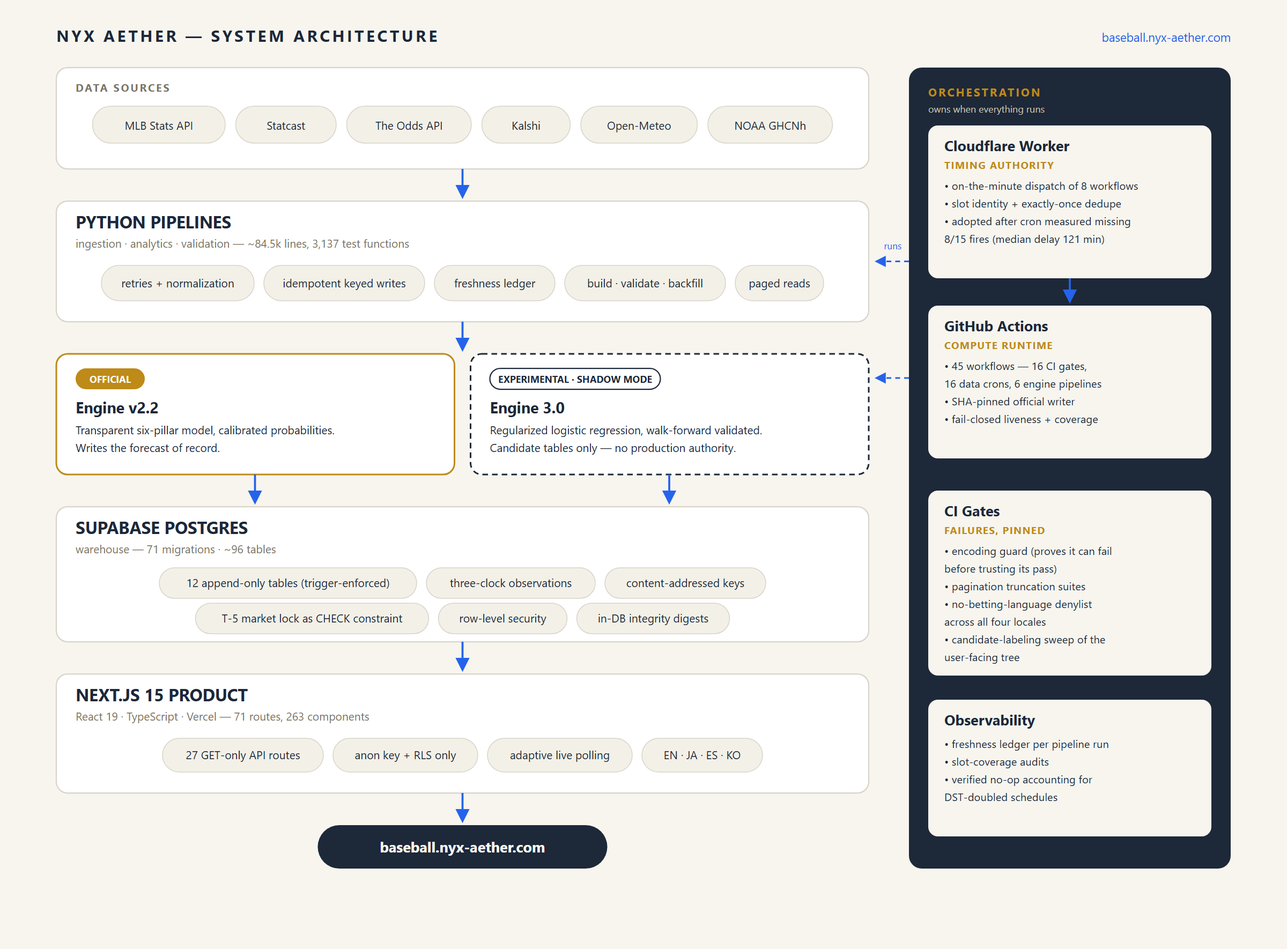
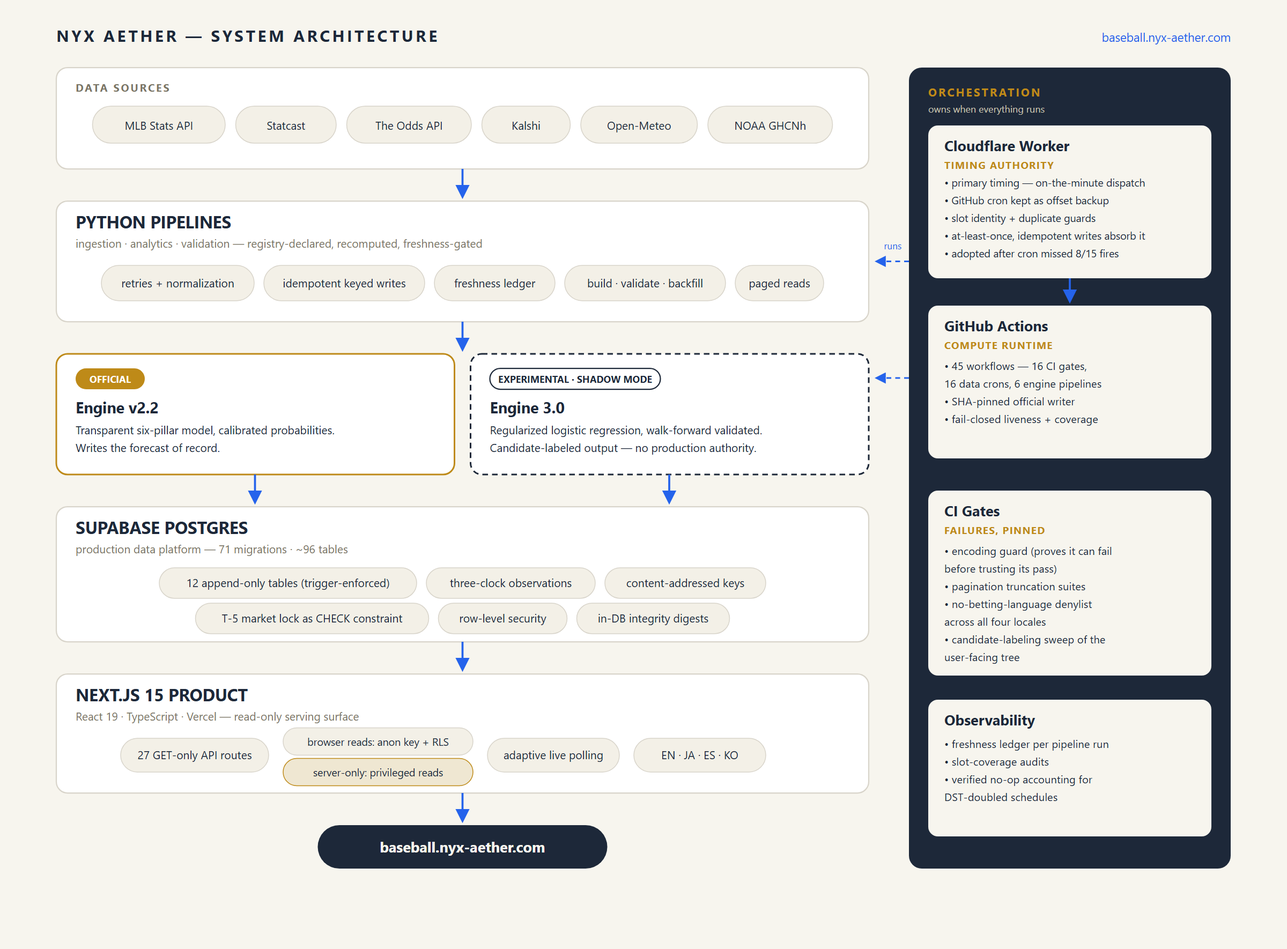
Accuracy pass: at-least-once scheduling, two-path access model, data-platform terminology, refreshed record, model-eval cohorts

diff --git a/README.md b/README.md
@@ -2,7 +2,7 @@
 
 ![NYX Aether](assets/hero.png)
 
-A production MLB analytics and forecasting platform — designed, built, and operated end-to-end by one person in 12 weeks. Six external sources feed a Postgres warehouse with database-enforced temporal integrity. Two prediction engines run under frozen evaluation protocols. A Cloudflare Worker owns all scheduling, because the default scheduler measurably dropped half its fires. The public product grades its own forecasts in the open.
+A production MLB analytics and forecasting platform — designed, built, and operated end-to-end by one person in 12 weeks. Six public data sources feed a PostgreSQL data platform whose temporal integrity is enforced by the database itself; two prediction engines run under frozen evaluation protocols; and the public product grades its own forecasts in the open. The hard part was never the baseball — it was making every number explainable, timestamped, and reproducible after the fact.
 
 **Live product:** [baseball.nyx-aether.com](https://baseball.nyx-aether.com)
 
@@ -10,7 +10,7 @@ A production MLB analytics and forecasting platform — designed, built, and ope
 
 | | |
 |---|---|
-| [Architecture](docs/ARCHITECTURE.md) | System design: sources → pipelines → warehouse → serving, and the orchestration rail |
+| [Architecture](docs/ARCHITECTURE.md) | System design: sources → pipelines → data platform → serving, and the orchestration rail |
 | [Technical case study](docs/TECHNICAL_CASE_STUDY.md) | Five production problems: silent data loss, unreliable schedulers, forecast integrity, point-in-time correctness, evaluation governance |
 | [Data engineering](docs/DATA_ENGINEERING.md) | Ingestion, idempotency, freshness, identity resolution, and the failure modes that shaped them |
 | [Model evaluation](docs/MODEL_EVALUATION.md) | How the models are measured, what the numbers actually are, and the rules that prevent overclaiming |
@@ -20,10 +20,10 @@ A production MLB analytics and forecasting platform — designed, built, and ope
 
 ## What I built
 
-NYX Aether answers a simple product question — *who is likely to win tonight, and why?* — with an uncompromising constraint: every number shown to a user must be explainable, timestamped, and reproducible after the fact. That constraint, not the baseball, is what made the system hard.
+NYX Aether answers a simple product question — *who is likely to win tonight, and why?* — under a hard constraint: every number shown to a user must be explainable, timestamped, and reproducible after the fact.
 
 - **Data platform.** Python pipelines ingest game schedules, box scores, pitch-level Statcast data, sportsbook odds, prediction-market prices, and stadium weather from six external sources into Supabase Postgres — with retries, freshness tracking, idempotent writes, and reconciliation passes that heal gaps instead of assuming clean runs.
-- **Warehouse with guarantees.** 71 SQL migrations define ~96 tables. Twelve of them are append-only, enforced by database triggers that refuse `UPDATE`/`DELETE` for every role — historical facts cannot be rewritten through any database role, including the pipelines' own service role.
+- **Data platform with database-enforced guarantees.** 71 SQL migrations define ~96 tables. Twelve are append-only, enforced by triggers that refuse `UPDATE`/`DELETE` for every role — historical facts cannot be rewritten through any database role, including the pipelines' own service role.
 - **Two engines, asymmetric authority.** A transparent pillar-based engine with calibrated probabilities publishes the forecast of record. A machine-learned challenger runs in shadow mode against it — its writer cannot reach production tables, and it is evaluated under preregistered, frozen protocols.
 - **Public accountability.** The product publishes its own win–loss record on every graded forecast, alongside sportsbook favorites' records on their own cohorts — with an explicit "compare the records, not just the percentages" explanation, because the cohorts differ.
 - **The product itself.** A Next.js 15 app — live scores, game analysis, player pages, playoff odds, and a model history page — in four languages, on a read-only API surface.
@@ -32,12 +32,12 @@ NYX Aether answers a simple product question — *who is likely to win tonight, 
 
 ![Architecture diagram](assets/architecture.svg)
 
-The unusual part is the **orchestration rail**. GitHub Actions is the compute runtime, but not the timing authority: a Cloudflare Worker dispatches the scheduled workflows on the minute, labels every dispatch with a slot identity, and dedupes so each slot runs exactly once. The split was validated by measurement — bare GitHub cron, instrumented over three days on a production workflow, missed 8 of 15 scheduled fires, with a median delay of 121 minutes and a worst case of 479. Downstream jobs derive their work from the schedule slot, not the wall clock, so a delayed run still processes the right slate. Details in [ARCHITECTURE.md](docs/ARCHITECTURE.md) and [case study #2](docs/TECHNICAL_CASE_STUDY.md#2-scheduling-on-infrastructure-that-misses-half-its-alarms).
+The unusual part is the **orchestration rail**. GitHub Actions is the compute runtime; timing authority lives in a Cloudflare Worker that dispatches the scheduled workflows on the minute and labels every dispatch with a slot identity. The split was earned by measurement — bare GitHub cron, instrumented over three days on a production workflow, missed 8 of 15 scheduled fires (median delay 121 minutes, worst case 479). Scheduling is resilient rather than exactly-once: the Worker is primary, each workflow keeps its GitHub cron as a backup, and idempotent `game_pk`-keyed writes make a duplicate or retried run harmless. Jobs derive their work from the schedule slot, not the wall clock, so a delayed run still processes the right slate. Details in [ARCHITECTURE.md](docs/ARCHITECTURE.md) and [case study #2](docs/TECHNICAL_CASE_STUDY.md#2-scheduling-on-infrastructure-that-misses-half-its-alarms).
 
 ## Engineering highlights
 
 1. **A write-once forecast archive.** I caught upserts silently rewriting "pregame" win probabilities after games started — 33 of 60 archived values had drifted from what was first captured, which would have quietly corrupted every evaluation metric. The fix: an insert-only archive behind a unique lock, verified by checksum audits — and a doctrine that hardened into the 12 trigger-enforced append-only tables. ([Case study #1](docs/TECHNICAL_CASE_STUDY.md#1-the-forecast-of-record))
-2. **Silent truncation, found and fenced.** The Postgres REST layer caps responses at ~1,000 rows without an error. Four production readers were consuming truncated data — one table had 14,825 rows, and the *newest* rows were the ones dropped. Fix: a paged reader with a deterministic total order, plus a CI regression suite that simulates the truncation behavior so the bug class can't return. ([Case study #3](docs/TECHNICAL_CASE_STUDY.md#3-the-database-was-silently-lying))
+2. **Silent truncation, found and fenced.** The Postgres REST layer caps responses at ~1,000 rows without an error. Four production readers were consuming truncated data — one table had 14,825 rows, and the *newest* rows were the ones dropped. Fix: a paged reader with a deterministic total order, plus a CI regression suite that simulates the truncation so the bug class can't return. ([Case study #3](docs/TECHNICAL_CASE_STUDY.md#3-the-database-was-silently-lying))
 3. **Point-in-time correctness compiled into the schema.** Three separate clocks per observation (what the source claimed, when it was observed, when the row was written). Content-addressed primary keys whose hashes are recomputed by `CHECK` constraints in-database. A sportsbook closing line locked 5 minutes before first pitch as a pure function of append-only snapshots — with the deadline arithmetic itself a `CHECK` constraint. ([Case study #4](docs/TECHNICAL_CASE_STUDY.md#4-point-in-time-correctness-as-a-schema-property))
 4. **Evaluation governance that cannot overclaim.** Split policy, metrics, and holdout seasons were frozen as hashed contracts before training; the out-of-time validation was preregistered, executed once, and recorded as consumed; the live comparison ledger refuses directional claims below its minimum-evidence threshold. ([Case study #5](docs/TECHNICAL_CASE_STUDY.md#5-evaluation-governance-that-cannot-overclaim))
 5. **A benchmark that caught its own bug.** The engine-comparison harness found non-determinism in its own reads, invalidated its first result, re-ran to bit-exact reproduction — and still published its verdict as "not statistically established." ([MODEL_EVALUATION.md](docs/MODEL_EVALUATION.md))
@@ -49,16 +49,16 @@ The unusual part is the **orchestration rail**. GitHub Actions is the compute ru
 
 The modeling story is deliberately unglamorous, because MLB game outcomes are close to coin flips and pretending otherwise collapses in front of anyone who knows the domain.
 
-- Walk-forward out-of-sample AUC for the platform's machine-learned model line rose stepwise toward a documented practical ceiling of ~0.58–0.60 for this problem; each step had to earn its place out-of-sample. Figures, per-step attribution, and calibration evidence in [MODEL_EVALUATION.md](docs/MODEL_EVALUATION.md).
-- The production engine's public record at time of writing: **521–438 (54.3% ± 3.2pp at 95%) on 959 graded picks**. Sportsbook favorites over a recent overlapping window win ≈58.5–59.0% *of their own priced cohorts* — a different denominator, which the product says out loud instead of burying.
+- Walk-forward out-of-sample AUC for the production model line rose stepwise across development — documented with its cohort and sample size in [MODEL_EVALUATION.md](docs/MODEL_EVALUATION.md) — against an internal empirical ceiling near 0.58–0.60 for this near-coin-flip problem. Log loss, Brier, and calibration are the primary metrics; AUC is secondary.
+- The production engine's public record (snapshot **September 2, 2026**): **524–450 on 974 graded forecasts — 53.8%, ±3.1 pp at 95%**, above a coin flip (two-sided p ≈ 0.017). Sportsbook favorites over a recent overlapping window run **56.8–57.3%** *on their own priced cohorts* (213–227 games each) — a different denominator, which the product states out loud instead of burying.
 - The experimental engine has **no production authority** — its writer cannot reach official tables, its output renders only under explicit candidate labeling, and a repository test sweeps the user-facing tree to prove no experimental output leaks into the product. (Mechanisms in [MODEL_EVALUATION.md](docs/MODEL_EVALUATION.md).)
 
 ## Production & reliability
 
-- **45 GitHub Actions workflows**: 16 CI gates, 16 scheduled data pipelines, 6 engine pipelines, a monitor, and manual tools.
+- **45 GitHub Actions workflows**: 16 CI gates, 16 scheduled data pipelines, 6 engine pipelines, a freshness monitor, and manual tools.
 - **Observability as a wrapper**: every pipeline run records run metadata and data freshness together, and failure never advances freshness.
-- **Idempotency everywhere**: keyed upserts, healing lookbacks, and set-based reconciliation make repeated or overlapping runs harmless ([DATA_ENGINEERING.md](docs/DATA_ENGINEERING.md)).
-- **Read-only serving surface**: 27 GET-only API routes, no server actions — the web tier cannot mutate anything ([ARCHITECTURE.md](docs/ARCHITECTURE.md)).
+- **Idempotent, at-least-once execution**: the Cloudflare Worker is the primary scheduler with each workflow's GitHub cron kept as backup; keyed upserts, healing lookbacks, and set-based reconciliation make a duplicate, retried, or overlapping run harmless ([DATA_ENGINEERING.md](docs/DATA_ENGINEERING.md)).
+- **Read-only serving surface**: 27 GET-only API routes, no server actions — the browser cannot mutate anything, and reads split between a public anon-key + RLS path and a server-only privileged path that never reaches the client ([ARCHITECTURE.md](docs/ARCHITECTURE.md)).
 - **Incidents become gates**: the failure classes that actually occurred — encoding corruption, pagination truncation, language drift, label leakage — each run as blocking CI checks ([DATA_ENGINEERING.md](docs/DATA_ENGINEERING.md#testing)).
 
 ## The product
@@ -76,20 +76,17 @@ The public app at [baseball.nyx-aether.com](https://baseball.nyx-aether.com) —
 
 ## Tech stack
 
-**Python** (pipelines, engines, evaluation) · **PostgreSQL / Supabase** (warehouse, RLS, triggers as guarantees) · **TypeScript / Next.js 15 / React 19 / Tailwind** (product) · **GitHub Actions** (compute + CI) · **Cloudflare Workers** (timing authority) · **Vercel** (serving) · pandas, scikit-learn, pybaseball, pytest (3,137 test functions), node:assert (96 web test files, zero test-framework dependencies)
+**Python** (pipelines, engines, evaluation) · **PostgreSQL / Supabase** (data platform, RLS, triggers as guarantees) · **TypeScript / Next.js 15 / React 19 / Tailwind** (product) · **GitHub Actions** (compute + CI) · **Cloudflare Workers** (timing authority) · **Vercel** (serving) · pandas, scikit-learn, pybaseball, pytest, node:assert
 
 ## By the numbers
 
-All figures measured from the production repository at the time of writing (September 2026).
-
 | | |
 |---|---|
-| Timeline | 12 weeks (June 10 – September 2, 2026), solo |
-| History | 1,000 commits, 438 merged pull requests |
-| Pipelines | ~84.5k lines of Python + ~43.5k lines of tests |
-| Database | 71 migrations, ~96 tables, 12 append-only under trigger enforcement |
-| Automation | 45 GitHub Actions workflows + a Cloudflare Worker dispatcher |
-| Product | 71 routes, 263 React components, 27 read-only API endpoints, 4 languages |
+| Timeline | 12 weeks, solo (June 10 – September 2, 2026) |
+| Public track record | 524–450 on 974 graded forecasts (53.8%), snapshot Sep 2, 2026 |
+| Data integrity | 71 migrations; 12 append-only tables enforced by database triggers |
+| Automation | 45 GitHub Actions workflows, Cloudflare-dispatched with idempotent writes |
+| Serving | 27 read-only API endpoints, 4 languages |
 
 ## Project evolution
 
@@ -99,7 +96,7 @@ The system was promoted, not launched: the first engine went to production behin
 
 - **The production source is private.** It contains operational configuration and model internals that are not appropriate to publish. This case-study repo is the public artifact: architecture, decisions, tradeoffs, and verified numbers — no fabricated code samples (anything illustrative is labeled as simplified pseudocode).
 - **Data use.** The platform consumes free, publicly accessible data (MLB Stats API, Statcast via pybaseball, The Odds API, Kalshi, Open-Meteo, NOAA) for research and demonstration. It is an independent project, not affiliated with or endorsed by MLB or any data provider. The product presents explainable sports intelligence — it does not offer betting advice, and a CI gate enforces that stance in all four languages.
-- **Method.** Built solo, with AI coding tools in the loop for implementation speed. The guardrails are mechanical, not aspirational: every change through a pull request (438 merged), blocking CI for previously observed failure classes, immutability and access rules enforced in the database, and evaluation protocols that bind the author too.
+- **Method.** AI coding tools were used in the loop for implementation speed. The architecture, constraints, evaluation policy, and production decisions were mine, and they are governed mechanically rather than by good intentions: every change lands through a pull request, blocking CI guards the failure classes that have actually occurred, immutability and access rules are enforced in the database, and the evaluation protocols bind me as much as anyone.
 
 ## About
 

diff --git a/docs/ARCHITECTURE.md b/docs/ARCHITECTURE.md
@@ -1,6 +1,6 @@
 # Architecture
 
-NYX Aether is a five-layer system: external data sources feed Python pipelines, which land in a Postgres warehouse, which serves two prediction engines and a Next.js product — with an orchestration rail alongside that owns *when* everything runs.
+NYX Aether is a five-layer system: external data sources feed Python pipelines, which land in a Supabase Postgres data platform, which serves two prediction engines and a Next.js product — with an orchestration rail alongside that owns *when* everything runs.
 
 ![Architecture diagram](../assets/architecture.svg)
 
@@ -29,7 +29,7 @@ Clients share a pattern: persistent sessions, timeouts, retry with exponential b
 
 ## Layer 2 — Pipelines (Python)
 
-~84.5k lines of pipeline and engine code, ~43.5k lines of tests (3,137 test functions).
+A layer built for correctness under repetition — every dataset declared, every builder independently recomputed, every run's freshness earned rather than assumed.
 
 - **A pipeline registry as the single source of truth.** Every dataset is declared in a frozen manifest: its builder, validator, backfill entry point, source, owner, status (production / candidate / planned), and schedule. "What pipelines exist" is a queryable fact, not tribal knowledge.
 - **A shared formula registry.** Common statistical formulas live in one module with denominator guards, null handling, and fixed rounding — verified byte-identical to the inline math they replaced before adoption. The registry doubles as documentation: each metric maps to its formula and methodology, separating public MLB metrics from the platform's own indexes.
@@ -38,15 +38,15 @@ Clients share a pattern: persistent sessions, timeouts, retry with exponential b
 
 Details and failure stories in [DATA_ENGINEERING.md](DATA_ENGINEERING.md).
 
-## Layer 3 — Warehouse (Supabase Postgres)
+## Layer 3 — Data platform (Supabase Postgres)
 
-71 SQL migrations defining ~96 tables. The schema enforces its rules:
+A production PostgreSQL data platform — not a dedicated analytical warehouse — carrying both the operational serving tables and the historical/analytical structures behind them. 71 SQL migrations define ~96 tables, and the schema enforces its own rules:
 
 - **12 append-only tables** enforced by `BEFORE UPDATE OR DELETE` triggers that bind every role, including the pipelines' own service role. Market snapshots, starter observations, weather archives, engine artifacts — anywhere history *is* the product. (The forecast-of-record archive predates the trigger doctrine; it is write-once by unique lock, insert-only writes, and standing checksum audits — [case study #1](TECHNICAL_CASE_STUDY.md#1-the-forecast-of-record).)
 - **Three-clock observation records** (source-claimed time, observed time, written time) enabling exact as-of replay.
 - **Content-addressed primary keys** on key archival tables, with `CHECK` constraints recomputing the hash in-database, so a row whose content contradicts its identity cannot exist.
 - **Derived integrity in SQL.** The T-5 closing-line lock validates its own deadline arithmetic in a `CHECK` constraint; weather snapshot digests are computed by Postgres, not trusted from the client.
-- **Two-tier access.** Public read access flows through row-level security scoped to an anonymous key; privileged writes use the service role only from pipeline infrastructure. A cross-source identity map (MLBAM / Retrosheet / Baseball-Reference / FanGraphs player IDs) has anchored multi-source joins since migration 0001.
+- **Row-level security as the boundary.** Public reads flow through RLS policies scoped to an anonymous key; a set of tables is RLS-closed (RLS on, no anonymous policy) and reachable only with the service-role credential — used by pipeline infrastructure and by server-only web code, never shipped to the browser. A cross-source identity map (MLBAM / Retrosheet / Baseball-Reference / FanGraphs player IDs) has anchored multi-source joins since migration 0001.
 
 ## Layer 4 — Engines
 
@@ -62,7 +62,7 @@ The asymmetry is structural: the experimental engine's writer cannot reach produ
 Next.js 15 / React 19 / TypeScript / Tailwind; 71 routes, 263 components, four locales (EN/JA/ES/KO).
 
 - **Read-only by construction:** 27 API routes, all `GET`; no mutation route and no server actions exist in the web tree.
-- **The browser never holds privilege:** clients get the anonymous key, scoped by row-level security; anything needing more runs server-side.
+- **Two read paths, one privilege boundary:** the browser reads with the anonymous key, and safety rests on Postgres RLS select policies — the service-role key is never used client-side and never enters the bundle. A separate **server-only** path reads the RLS-closed tables with a privileged credential, guarded three ways: an `import "server-only"` build guard, a non-public env var name (so the framework can't inline it), and a runtime check that throws if it ever runs in a browser. When that credential is absent, the server path returns an explicit unavailable state rather than silently downgrading to the anon client.
 - **Server-side proxying for live data:** upstream MLB calls are proxied with an 8-second cache and adaptive client polling (5s during live play, backing off to 15/60/300s by game state) — fast when it matters, polite when it doesn't.
 - **Promotions are URL rewrites, not history rewrites:** the current UI generation serves clean URLs via `beforeFiles` rewrites over the previous generation, which remains in-tree as the rollback path. Redirects for promoted paths are temporary (307), so rolling back never fights browser-cached permanent redirects.
 - **Product-safety gates run in CI:** betting-language denylist across all four locales, and the candidate-labeling sweep of user-facing surfaces ([DATA_ENGINEERING.md](DATA_ENGINEERING.md#testing)).
@@ -71,10 +71,10 @@ Next.js 15 / React 19 / TypeScript / Tailwind; 71 routes, 263 components, four l
 
 GitHub Actions is the compute runtime — 45 workflows: 16 CI gates, 16 scheduled data pipelines, 6 engine pipelines, a monitor, and manual tools — but timing authority lives in a Cloudflare Worker, adopted for all scheduled lanes after bare GitHub cron was measured dropping over half its fires ([case study #2](TECHNICAL_CASE_STUDY.md#2-scheduling-on-infrastructure-that-misses-half-its-alarms)).
 
-- The Worker dispatches eight workflows on the minute, each dispatch labeled with a slot identity and deduped to exactly-once per slot.
-- Jobs derive their slate from the slot, not the wall clock — a late run still processes the right work.
-- Eastern-time schedules run as DST-doubled cron pairs; the inactive half resolves to a verified no-op.
-- Every write path is idempotent (keyed upserts or content-addressed appends), so overlap and retry are harmless by design.
+- **Primary timing, backup scheduling.** The Worker dispatches eight workflows on the minute, each dispatch labeled with a slot identity. Every workflow also keeps its own GitHub cron as a backup — offset for the slot-sensitive lanes — so if the Worker is down the job still runs, less punctually.
+- **At-least-once, not exactly-once.** The Worker's active-run and per-slot guards *reduce* duplicate dispatches but cannot eliminate them, because a backup cron fires independently of the Worker; a healthy slot may legitimately run more than once. Correctness does not depend on single execution.
+- **Idempotent execution.** Every authoritative write is a keyed upsert (on `game_pk`) or a content-addressed append, so a duplicate, retried, or overlapping run produces the same state. Workflow concurrency groups serialize overlap; they don't deduplicate.
+- **Delay-invariant work.** Jobs derive their slate from the schedule slot, not the wall clock, so a late run still processes the right work. Eastern-time schedules run as DST-doubled cron pairs; the inactive half resolves to a verified no-op.
 - The official forecast writer is fail-closed: a SHA-pinned workflow behind a code-identity preflight that refuses to publish if the checkout diverges from the pinned revision, then liveness and coverage verification that fails the run loudly if the official surface is unhealthy after the publish chain. A missing forecast is visible; a stale one masquerading as fresh is not.
 
 ## Security posture

diff --git a/docs/MODEL_EVALUATION.md b/docs/MODEL_EVALUATION.md
@@ -1,14 +1,14 @@
 # Model Evaluation
 
-How the models are measured, what the numbers actually are, and the machinery that polices the numbers. Every figure here is scoped with its cohort, sample size, and what it does *not* claim.
+How the models are measured, what the numbers actually are, and the machinery that polices the numbers. Every decision-grade result here is scoped with its cohort, sample size, and uncertainty; development diagnostics are labeled as such, with their cohort and N.
 
 ## The domain, stated plainly
 
-MLB game outcomes are close to coin flips. Internal walk-forward analysis — consistent with publicly reported results for this problem — puts the practical ceiling for pregame win-probability models around **AUC 0.58–0.60**: strong teams lose to weak teams constantly, and that's the sport, not a modeling failure. Any presentation of this domain that leads with a big accuracy number is either measuring something else or hiding a denominator. The evaluation doctrine follows from that reality:
+MLB game outcomes are close to coin flips: strong teams lose to weak teams constantly, and that's the sport, not a modeling failure. Across this project's internal walk-forward experiments with the current feature family, useful single-game performance clusters near **AUC 0.58–0.60** — treat that as an *internal empirical* ceiling observed on this data, not a cited external bound. Any presentation of this domain that leads with a big accuracy number is either measuring something else or hiding a denominator. The evaluation doctrine follows from that reality:
 
 - **Calibration, log loss, and Brier score are the primary metrics.** For a probability product, "when we say 60%, does it happen 60% of the time" matters more than ranking.
 - **AUC and selective accuracy are secondary** — they can identify a skill signal, but never automatically justify replacing a full-game model.
-- **Every claim carries its cohort, N, and uncertainty.** A number without a denominator is marketing.
+- **Every decision-grade claim carries its cohort, N, and uncertainty.** A number without a denominator is marketing.
 
 ## The two engines
 
@@ -16,9 +16,9 @@ MLB game outcomes are close to coin flips. Internal walk-forward analysis — co
 
 **Engine 3.0 — experimental.** A machine-learned challenger (regularized logistic regression over a frozen feature contract) developed under walk-forward validation with sealed holdout seasons. Experimental builds run in shadow mode on the live slate — same games, same information cutoff — publishing only to candidate-labeled surfaces, with no production authority. Its own development metrics stay in the private research record; the only public numbers for it are the retrospective-benchmark toplines further down, not the arc in the next section (which is the production model line's).
 
-## The machine-learned line: development arc
+## The production model line: development arc (diagnostic)
 
-The models behind production serving came out of a walk-forward research line, with out-of-sample AUC documented at each step and each step required to earn its place out-of-sample:
+These are **development diagnostics**, not decision-grade headline metrics — a walk-forward record of how the production model line improved as features were added. All four rows share one cohort: cross-season, expanding-window walk-forward with no leakage (train precedes test; features reconstructed point-in-time, strictly before first pitch), evaluated **out-of-sample across two recent held-out seasons, N = 3,145 games**.
 
 | Iteration | OOS AUC |
 |---|---|
@@ -27,9 +27,9 @@ The models behind production serving came out of a walk-forward research line, w
 | + learned weights (regularized linear model over the sub-scores) | 0.5626 |
 | + confirmed-lineup completeness (same-day availability) | 0.5673 |
 
-Read against the floor and ceiling: from the 0.50 coin-flip floor toward the ~0.58–0.60 ceiling, 0.5673 covers roughly 67–84% of the available AUC range. Calibration was verified during development, with a mean decile gap of ≈ 0.014 between predicted and observed win rates. Development followed leakage-safe walk-forward splits throughout — train strictly precedes test, and features are point-in-time reconstructions from the observation history.
+The ladder is shown in AUC on purpose: it is the one comparable single number across iterations, which makes it the right *diagnostic* for "did this feature add signal." It is not the promotion criterion — that role belongs to calibration, log loss, and Brier (the primary metrics above), which is why no model was promoted on an AUC gain alone. On the same walk-forward out-of-sample cohort (the two held-out seasons, N = 3,145), calibration held to a mean decile gap of ≈ 0.014 between predicted and observed win rates. The gains are deliberately incremental — each step had to earn its place out-of-sample against a domain where the internal empirical ceiling sits near 0.58–0.60.
 
-(These figures belong to the production-side model line. The experimental Engine 3.0's development numbers are deliberately not published; see below for what is.)
+(These figures belong to the production-side model line. The experimental Engine 3.0's development numbers are deliberately not published; its only public numbers are the retrospective-benchmark toplines below.)
 
 ## The governance stack
 
@@ -55,9 +55,9 @@ The conclusion drawn was procedural, not promotional: keep accruing prospective 
 
 ## The public record
 
-The product grades itself in the open. The Model History page shows the production engine's record on every graded forecast — as of September 3, 2026, **521–438 on 959 graded picks: 54.3%, ± 3.2 percentage points at 95% confidence**. That is above a coin flip (two-sided p ≈ 0.007), which is the weakest relevant baseline; the page shows wins and losses equally.
+The product grades itself in the open. The Model History page shows the production engine's record on every graded forecast — snapshot as of **September 2, 2026: 524–450 on 974 graded picks — 53.8%, ± 3.1 percentage points at 95% confidence**. That is above a coin flip (two-sided p ≈ 0.017), which is the weakest relevant baseline; the page shows wins and losses equally. (This figure moves daily as games grade; the snapshot date is stated so the number is dated rather than pretending to be live.)
 
-It also shows sportsbook favorites' records over a recent overlapping window: roughly **58.5–59.0%**, each book graded *on its own priced cohort* (~200 games each). The page explains, in product copy, why these percentages must not be compared directly: different denominators, different game sets, different abstention behavior. The product's stated doctrine — "compare the records, not just the percentages" — is a deliberate refusal to let a favorable-but-wrong comparison stand, in either direction, and a refusal to treat book hit rates as an "accuracy" benchmark the model should beat.
+It also shows sportsbook favorites' records over a recent overlapping window: roughly **56.8–57.3%**, each book graded *on its own priced cohort* (213–227 games each). The page explains, in product copy, why these percentages must not be compared directly: different denominators, different game sets, different abstention behavior. The product's stated doctrine — "compare the records, not just the percentages" — is a deliberate refusal to let a favorable-but-wrong comparison stand, in either direction, and a refusal to treat book hit rates as an "accuracy" benchmark the model should beat.
 
 This is the same rule that governs internal evaluation, applied where users can see it.
 

diff --git a/docs/PROJECT_EVOLUTION.md b/docs/PROJECT_EVOLUTION.md
@@ -22,7 +22,7 @@ The middle weeks built out ingestion across all six sources — and the schema t
 
 ## Stage 4 — The clock question (June → August)
 
-A Cloudflare Worker drove the intraday dispatches from week one; GitHub's native cron was never trusted with time-sensitive lanes. In late August, before handing the official-writer lane to scheduled cloud infrastructure, I measured bare GitHub cron on a production workflow: more than half the scheduled fires never happened ([case study #2](TECHNICAL_CASE_STUDY.md#2-scheduling-on-infrastructure-that-misses-half-its-alarms) has the numbers). The measurement justified finishing the migration — the Worker became the platform's single timing authority, with slot-identity dispatch and exactly-once dedupe, and jobs became delay-invariant by deriving work from the schedule slot rather than the wall clock.
+A Cloudflare Worker drove the intraday dispatches from week one; GitHub's native cron was never trusted with time-sensitive lanes. In late August, before handing the official-writer lane to scheduled cloud infrastructure, I measured bare GitHub cron on a production workflow: more than half the scheduled fires never happened ([case study #2](TECHNICAL_CASE_STUDY.md#2-scheduling-on-infrastructure-that-misses-half-its-alarms) has the numbers). The measurement justified finishing the migration — the Worker became the platform's primary timing authority, with slot-identity dispatch and duplicate-reducing guards, while each workflow kept its GitHub cron as an offset backup (so execution is at-least-once, and idempotent writes absorb a doubled slot). Jobs became delay-invariant by deriving work from the schedule slot rather than the wall clock.
 
 ## Stage 5 — The V3 product (July 20)
 
@@ -43,7 +43,7 @@ The month of fences, each one installed after a specific failure:
 
 ## Stage 8 — Full cloud operation (September)
 
-The official forecast writer — the one component still running on a local machine — cut over to cloud execution: a SHA-pinned workflow with a code-identity preflight that refuses to publish on checkout divergence, and fail-loud liveness and coverage verification after every publish chain. The local path was demoted to a documented emergency fallback. Alongside it, the public **Model History** page began grading the engine in the open (521–438 on 959 picks at time of writing, under the "compare the records, not just the percentages" doctrine), and new content systems entered development under the same contract-first discipline.
+The official forecast writer — the one component still running on a local machine — cut over to cloud execution: a SHA-pinned workflow with a code-identity preflight that refuses to publish on checkout divergence, and fail-loud liveness and coverage verification after every publish chain. The local path was demoted to a documented emergency fallback. Alongside it, the public **Model History** page began grading the engine in the open (524–450 on 974 picks, snapshot September 2, 2026, under the "compare the records, not just the percentages" doctrine), and new content systems entered development under the same contract-first discipline.
 
 ## What the arc shows
 

diff --git a/docs/TECHNICAL_CASE_STUDY.md b/docs/TECHNICAL_CASE_STUDY.md
@@ -67,12 +67,15 @@ Instrumented bare GitHub cron on a production workflow over a three-day window: 
 
 ### Design decision
 
-The measurement settled the architecture: *timing authority* and *compute* stay split, for every scheduled lane. The Worker — infrastructure whose one job is running on the minute — became the platform's single clock; GitHub Actions remained the runtime.
+The measurement settled the architecture: *timing authority* and *compute* stay split, for every scheduled lane. The Worker — infrastructure whose one job is running on the minute — became the platform's primary clock; GitHub Actions remained the runtime.
 
-- The Worker fires on schedule and dispatches the target workflows via API, so jobs start within seconds of their slot instead of whenever the queue drains.
-- Every dispatch carries a **slot identity** (which scheduled slot this run represents), and dedupe ensures each slot executes exactly once even if dispatch retries.
-- Downstream jobs derive the slate they should process **from the slot, not from the wall clock**. A run that starts late still computes the right answer for the right slot.
-- Overlapping or duplicate runs are harmless, because every write path is a keyed, idempotent upsert or an append with a content-addressed key.
+The key design choice is what the Worker does *not* try to guarantee. It fires on schedule and dispatches the target workflows via API, so jobs start within seconds of their slot instead of whenever the queue drains. But each workflow also keeps its own GitHub cron as a backup — offset for the slot-sensitive lanes — so if the Worker is ever down, the job still runs, just less punctually. That backup cron fires independently and the Worker cannot suppress it, so the honest execution model is **at-least-once, not exactly-once**: on a healthy day a slot can legitimately run more than once.
+
+Correctness therefore lives downstream, not in the dispatcher:
+
+- Every dispatch carries a **slot identity**, and the Worker's active-run and per-slot guards *reduce* duplicate dispatches — but they are best-effort and can't eliminate the independent backup path, so the system is designed to be correct even when a slot double-fires.
+- Every authoritative write is a **keyed, idempotent upsert** (on `game_pk`) or a content-addressed append, so a duplicate or retried run writes the same values — a no-op on state. Workflow concurrency groups serialize overlapping runs; they don't deduplicate them.
+- Downstream jobs derive the slate they should process **from the slot, not from the wall clock**, so a run that starts late still computes the right answer for the right slot.
 
 One wrinkle worth naming: cron on a UTC clock doubles against US daylight saving time. Schedules that must track Eastern Time run as paired entries, where the half that doesn't match the current DST offset resolves to a deliberate no-op — a correct no-op, verified as such, rather than a missing run.
 

diff --git a/docs/DATA_ENGINEERING.md b/docs/DATA_ENGINEERING.md
@@ -1,6 +1,6 @@
 # Data Engineering
 
-The pipeline layer is the largest part of the system: ~84.5k lines of Python plus ~43.5k lines of tests, ingesting six external sources into a Postgres warehouse on a schedule that runs all day, every day, unattended. This document covers the patterns that keep it correct — most of them purchased with a specific failure.
+The pipeline layer is the largest part of the system, ingesting six external sources into a PostgreSQL data platform on a schedule that runs all day, every day, unattended. This document covers the patterns that keep it correct — most of them purchased with a specific failure.
 
 ## Sources and ingestion
 
@@ -70,7 +70,7 @@ The repo also standardizes line-ending policy explicitly, because a Windows + PO
 
 Covered fully in [case study #2](TECHNICAL_CASE_STUDY.md#2-scheduling-on-infrastructure-that-misses-half-its-alarms), but the data-engineering summary:
 
-- Timing authority is a Cloudflare Worker; GitHub Actions is compute. The decision followed measurement — bare GitHub cron dropped more than half its scheduled fires ([case study #2](TECHNICAL_CASE_STUDY.md#2-scheduling-on-infrastructure-that-misses-half-its-alarms)).
+- Primary timing authority is a Cloudflare Worker; GitHub Actions is compute. The decision followed measurement — bare GitHub cron dropped more than half its scheduled fires ([case study #2](TECHNICAL_CASE_STUDY.md#2-scheduling-on-infrastructure-that-misses-half-its-alarms)). Each workflow keeps its GitHub cron as an offset backup, so execution is **at-least-once**; idempotent writes make a doubled slot harmless.
 - Jobs derive their slate from the **schedule slot**, not the wall clock — late runs do the right work.
 - Eastern-time schedules are DST-doubled cron pairs whose inactive half is a verified no-op.
 - Information cutoffs are fixed per slate (e.g., forecasts use only data available at a declared cutoff time), so multiple daily slots resolve to one canonical package and repeat slots verify idempotence instead of double-writing.
